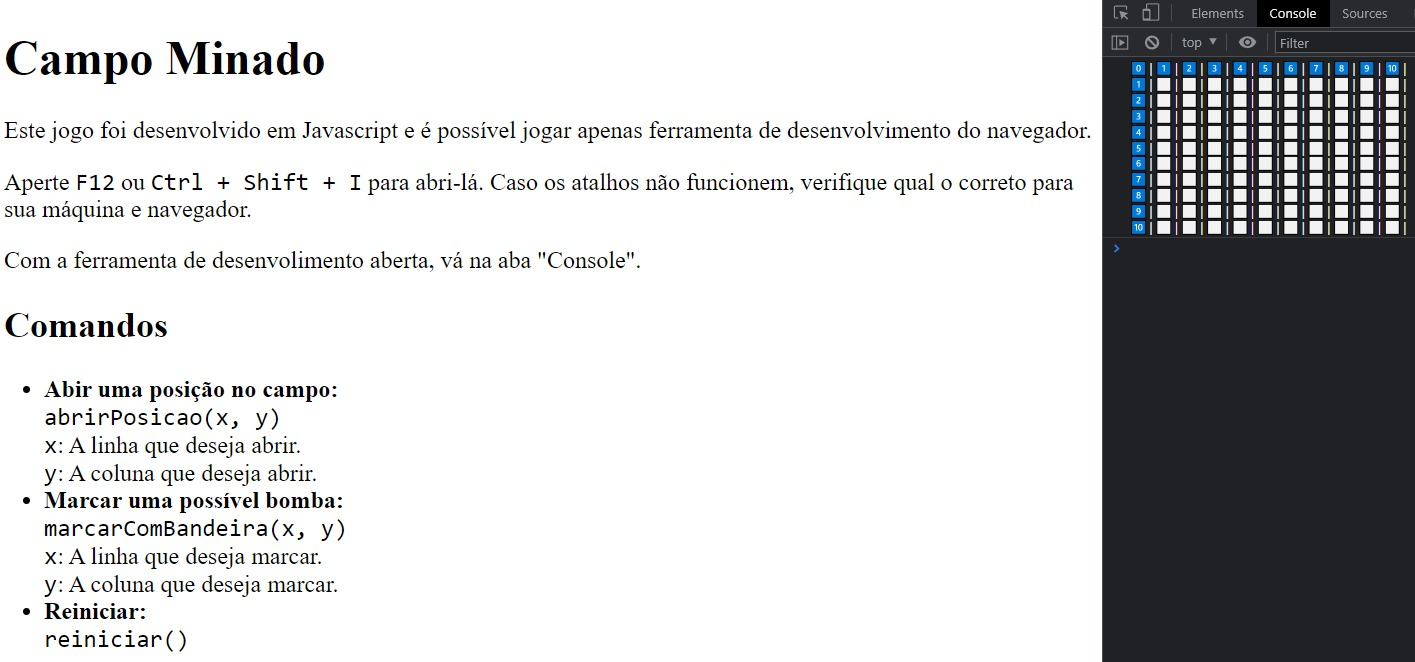
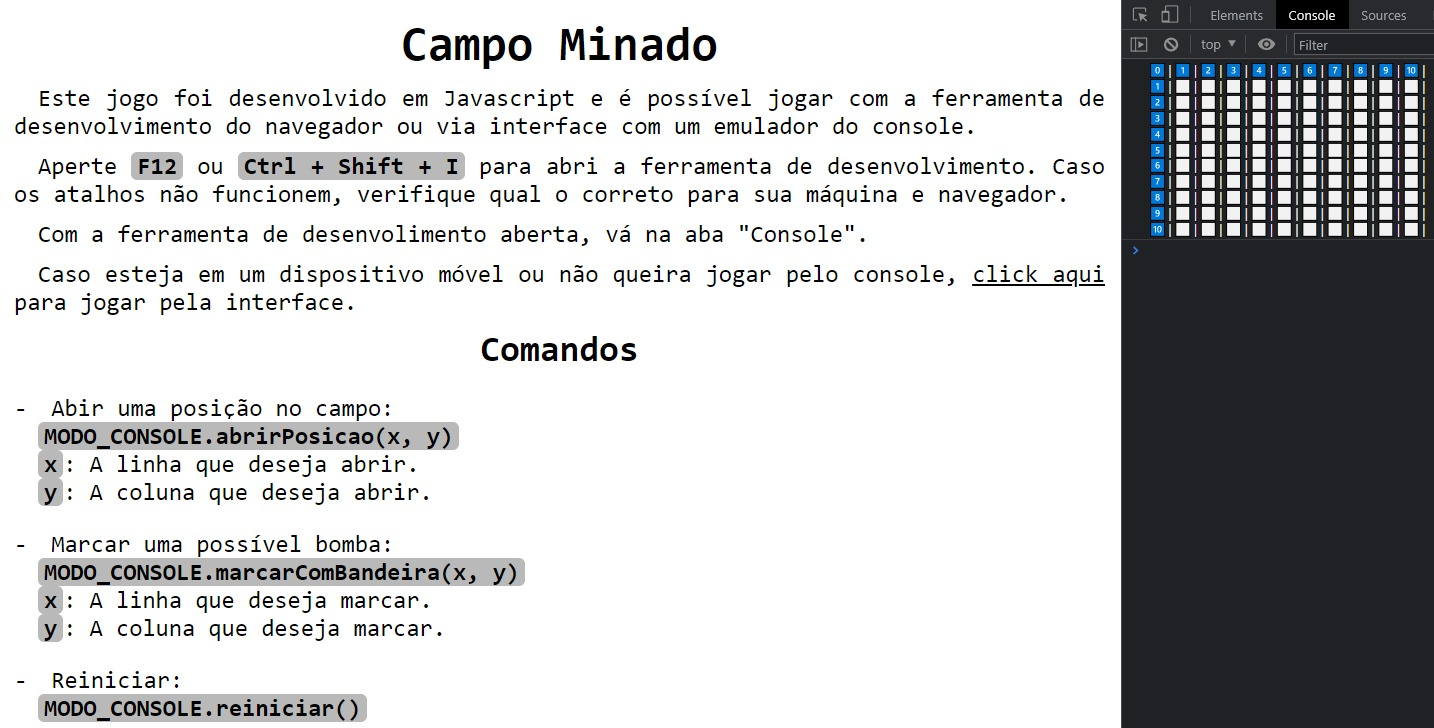
Atualizado prints do README

diff --git a/README.md b/README.md
@@ -6,14 +6,18 @@ Um jogo classico recriado com Javascript para ser jogado no console.
 
 Ao abrir
 
-![ao abrir](https://github.com/NathanReis/CampoMinado/blob/main/amostras/AoAbrir.jpeg)
+![Ao abrir](https://github.com/NathanReis/CampoMinado/blob/main/amostras/AoAbrir.jpeg)
 
 Vitória
 
-![vitoria](https://github.com/NathanReis/CampoMinado/blob/main/amostras/Vitoria.jpeg)
+![Vitória console](https://github.com/NathanReis/CampoMinado/blob/main/amostras/VitoriaConsole.jpeg)
 
 Derrota
 
-![vitoria](https://github.com/NathanReis/CampoMinado/blob/main/amostras/Derrota.jpeg)
+![Derrota console](https://github.com/NathanReis/CampoMinado/blob/main/amostras/DerrotaConsole.jpeg)
+
+"Emulador" do console (sim, é um bug no layout 😑)
+
+![Emulador console](https://github.com/NathanReis/CampoMinado/blob/main/amostras/Emulador.jpeg)
 
 [Clique aqui](https://nathanreis.github.io/CampoMinado/v1) para ver a versão publicada.
